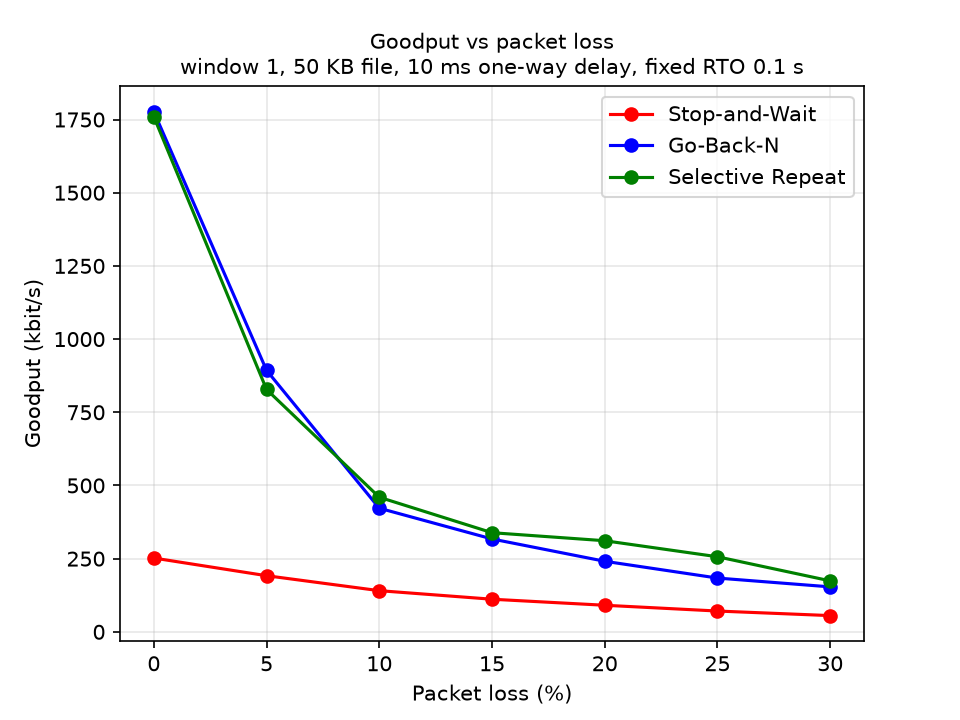
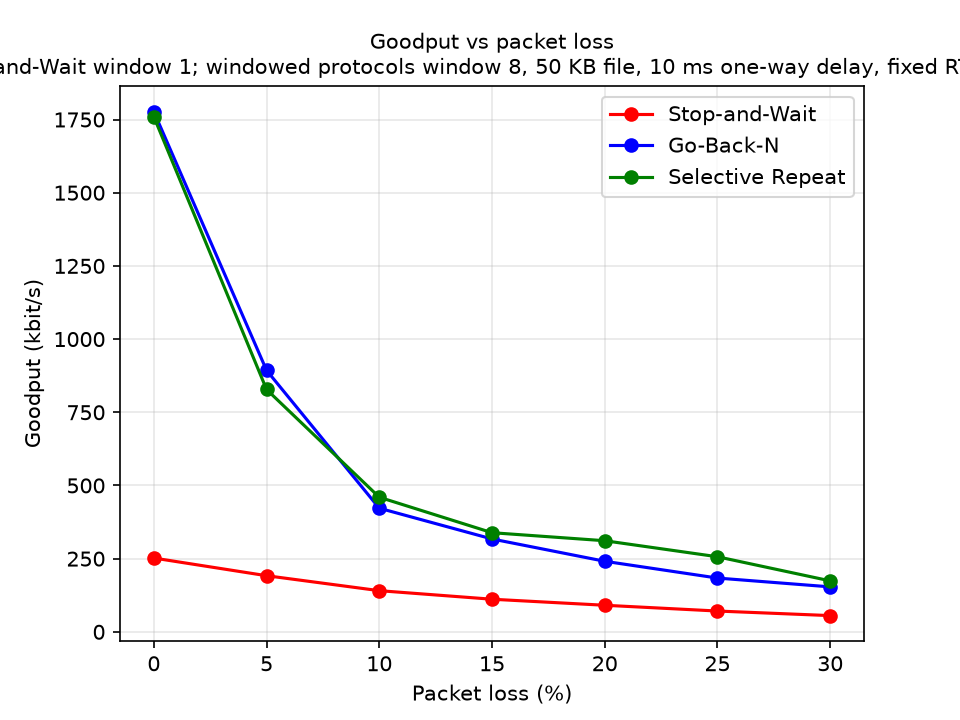
test: add proposal claim baseline

Changed region(s): [[0.0, 0.0611, 0.9062, 0.1222], [0.9375, 0.0611, 1.0, 0.1222]]

diff --git a/tests/test_claim_baseline.py b/tests/test_claim_baseline.py
@@ -1,0 +1,53 @@
+import pandas as pd
+
+
+RESULTS = "results"
+
+
+def load(name):
+    df = pd.read_csv(f"{RESULTS}/{name}.csv")
+    assert "completed" in df
+    assert df["completed"].astype(bool).all()
+    assert df["hash_ok"].astype(bool).all()
+    return df
+
+
+def test_exp1_claims():
+    df = load("exp1_goodput_vs_loss")
+    avg = df.groupby(["protocol", "loss"])["goodput_bps"].mean()
+
+    for loss in (0.10, 0.15, 0.20, 0.25, 0.30):
+        assert avg["sr", loss] > avg["gbn", loss]
+
+    for loss in df["loss"].unique():
+        assert avg["gbn", loss] > avg["sw", loss]
+        assert avg["sr", loss] > avg["sw", loss]
+
+
+def test_exp2_stop_and_wait_window_and_claim():
+    df = load("exp2_goodput_vs_window")
+    avg = df.groupby(["protocol", "window"])["goodput_bps"].mean()
+
+    sw_rows = df[df["protocol"] == "sw"]
+    assert set(sw_rows["window"]) == {1}
+
+    for window in (2, 4, 8, 16, 32):
+        assert avg["gbn", window] > avg["sw", 1]
+        assert avg["sr", window] > avg["sw", 1]
+
+
+def test_exp3_reordering_retransmissions():
+    df = load("exp3_retx_vs_reorder")
+    avg = df.groupby(["protocol", "reorder"])["retransmissions"].mean()
+
+    for reorder in df["reorder"].unique():
+        assert avg["gbn", reorder] > avg["sr", reorder]
+
+
+def test_exp4_all_rto_variants_complete():
+    df = load("exp4_rto_variants")
+    assert len(df) == 100
+
+    totals = df.groupby(["rto", "reset_backoff", "loss"]).size()
+    assert totals.sum() == 100
+    assert (totals == 5).all()

diff --git a/experiments/plots.py b/experiments/plots.py
@@ -47,7 +47,8 @@ def plot_goodput_vs_loss():
         plt.plot(rows["loss"] * 100, rows["goodput_bps"] / 1000,   # x in %, y in kbit/s
                  marker="o", color=COLORS[p], label=NAMES[p])
 
-    plt.title(f"Goodput vs packet loss\nwindow {df['window'].iloc[0]}, {settings_note(df)}",
+    plt.title(f"Goodput vs packet loss\nStop-and-Wait window 1; "
+              f"windowed protocols window 8, {settings_note(df)}",
               fontsize=10)
     plt.xlabel("Packet loss (%)")
     plt.ylabel("Goodput (kbit/s)")
@@ -98,8 +99,9 @@ def plot_retx_vs_reorder():
         plt.plot(rows["reorder"] * 100, rows["retransmissions"],
                  marker="o", color=COLORS[p], label=NAMES[p])
 
-    plt.title(f"Retransmissions vs reordering probability\nloss {df['loss'].iloc[0] * 100:.0f}%, "
-              f"window {df['window'].iloc[0]}, {settings_note(df)}", fontsize=10)
+    plt.title(f"Retransmissions vs reordering probability\nloss "
+              f"{df['loss'].iloc[0] * 100:.0f}%, Stop-and-Wait window 1; "
+              f"windowed protocols window 8, {settings_note(df)}", fontsize=10)
     plt.xlabel("Reordering probability (%)")
     plt.ylabel("Retransmissions per transfer")
     plt.legend()

diff --git a/README.md b/README.md
@@ -114,9 +114,10 @@ python -m experiments.plots        # writes results/*.png and prints the claim a
 What the data shows (mean of 5 seeds):
 
 - **Windowed protocols beat Stop-and-Wait everywhere.** At 0% loss, about 1.7 Mbit/s against about 0.25 Mbit/s.
-- **Selective Repeat's goodput lead over Go-Back-N is small and uneven.** Go-Back-N is slightly ahead at 5% loss (about 0.87 vs 0.81 Mbit/s). Selective Repeat is ahead at 10-30% loss, by about 0.02-0.07 Mbit/s, but only at 20% and 25% loss is the gap larger than the seed-to-seed spread.
-- **Window size.** Go-Back-N is ahead at windows 2 and 4. Selective Repeat is ahead on average from window 8, within the seed-to-seed noise; at window 32 it reaches about 1.19 Mbit/s against about 0.59 Mbit/s.
-- **Retransmissions.** Go-Back-N's rise with window size (47 at window 8, 106 at 32) while Selective Repeat's stay at 12, and under reordering Go-Back-N goes from about 16 to about 117 against 5 to 9.
+- **Selective Repeat leads Go-Back-N at moderate and high loss.** Fresh averages: at 10, 15, 20, 25 and 30% loss, SR is about 0.460, 0.339, 0.311, 0.256 and 0.174 Mbit/s versus GBN at 0.422, 0.317, 0.241, 0.184 and 0.154 Mbit/s. At 5% loss GBN remains slightly ahead.
+- **Both windowed protocols beat Stop-and-Wait.** Stop-and-Wait averages 0.140 Mbit/s at window 1. GBN is 0.263-0.606 Mbit/s and SR is 0.206-1.251 Mbit/s at windows 2-32.
+- **Window size.** GBN is ahead at windows 2 and 4. SR is ahead at windows 8, 16 and 32; the practical conclusion is a clear SR advantage only at larger windows in this sweep.
+- **Retransmissions.** Mean retransmissions rise under reordering for GBN from 15.8 to 116.6 from 0% to 30%. SR stays from 4.8 to 8.8 over the same range.
 - **Adaptive RTO loses to a fixed 0.05 s timeout** on this emulated link: about 0.32 vs 0.70 Mbit/s at 10% loss, and 0.027 vs 0.288 Mbit/s at 30% loss. Backoff-reset improves the adaptive result to about 0.42 Mbit/s at 10% loss and 0.286 Mbit/s at 20% loss.
 - **The fresh exp4 sweep has no failed trials.** All 100 RTO-variant runs completed and matched SHA-256, including all five seeds at 30% loss.
 
